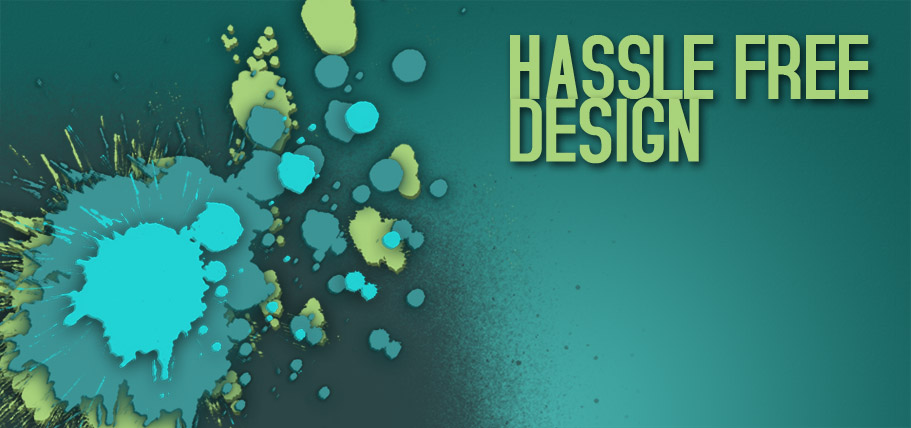
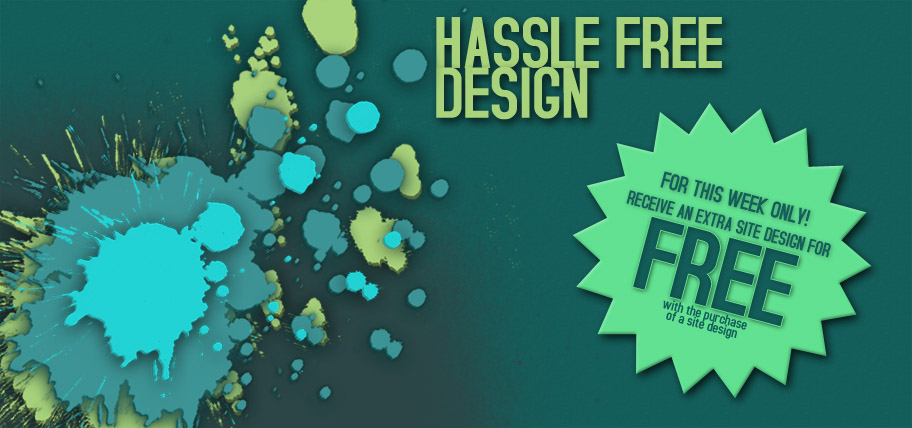
new promos

diff --git a/app/assets/stylesheets/nivo.css b/app/assets/stylesheets/nivo.css
@@ -64,31 +64,28 @@ Author URI: http://dev7studios.com
 
 .theme-gfi .nivo-directionNav a {
 	display:none;
+    color:#61E191;
 }
 
 .theme-gfi .nivo-caption {
-    bottom:40%;
-    left:auto;
-    right:0px;
-    width:auto;
+    bottom:1px;
+    left:33%;
+    right:auto;
+    width:35%;
     max-width:630px;
     overflow:hidden;
-    background:#fff;
-    text-shadow:none;
-    font-family: arial, serif;
-    color:#4c4b4b;
-    opacity: .7;
+    background: #135e5a;
+    text-shadow: 1px;
+    font-family: 'Accidental Presidency';
+    color:#61E191;
 }
 .theme-gfi .nivo-caption p {
-    padding:5px 15px;
-    color:#333;
-    font-weight:bold;
-    font-size:27px;
-    text-transform:uppercase;
+    color:#61E191;
+    font-size:30px;
+    font-family: 'Accidental Presidency';
 }
 .theme-gfi .nivo-caption a { 
-    color:#333;
-    font-weight:bold;
-    font-size:27px;
+    color:#61E191;
+    font-size:30px;
     text-transform:uppercase;
 }

diff --git a/app/assets/stylesheets/packages.sass b/app/assets/stylesheets/packages.sass
@@ -216,7 +216,7 @@
         
 #vLine
     width: 8px
-    height: 767px
+    height: 1000px
     position: absolute
     left: 130px
     right: 0
@@ -225,3 +225,13 @@
         right: auto
         top: -5px
     background: image-url('gfi/packages/table/vline.png')
+    
+#promoPicLeft
+    float: left
+    width: 560px
+    height: 194px
+    
+#promoPicRight
+    float: right
+    width: 436px
+    height: 194px

diff --git a/app/assets/stylesheets/layout.sass b/app/assets/stylesheets/layout.sass
@@ -179,7 +179,6 @@ hr.hrSub
         background-position: image-width($path)/2
         
 #right
-    float: right
-    margin:
-        right: 43px
-        top: -30px
+    position: absolute
+    right: 20px
+    top: 10px
